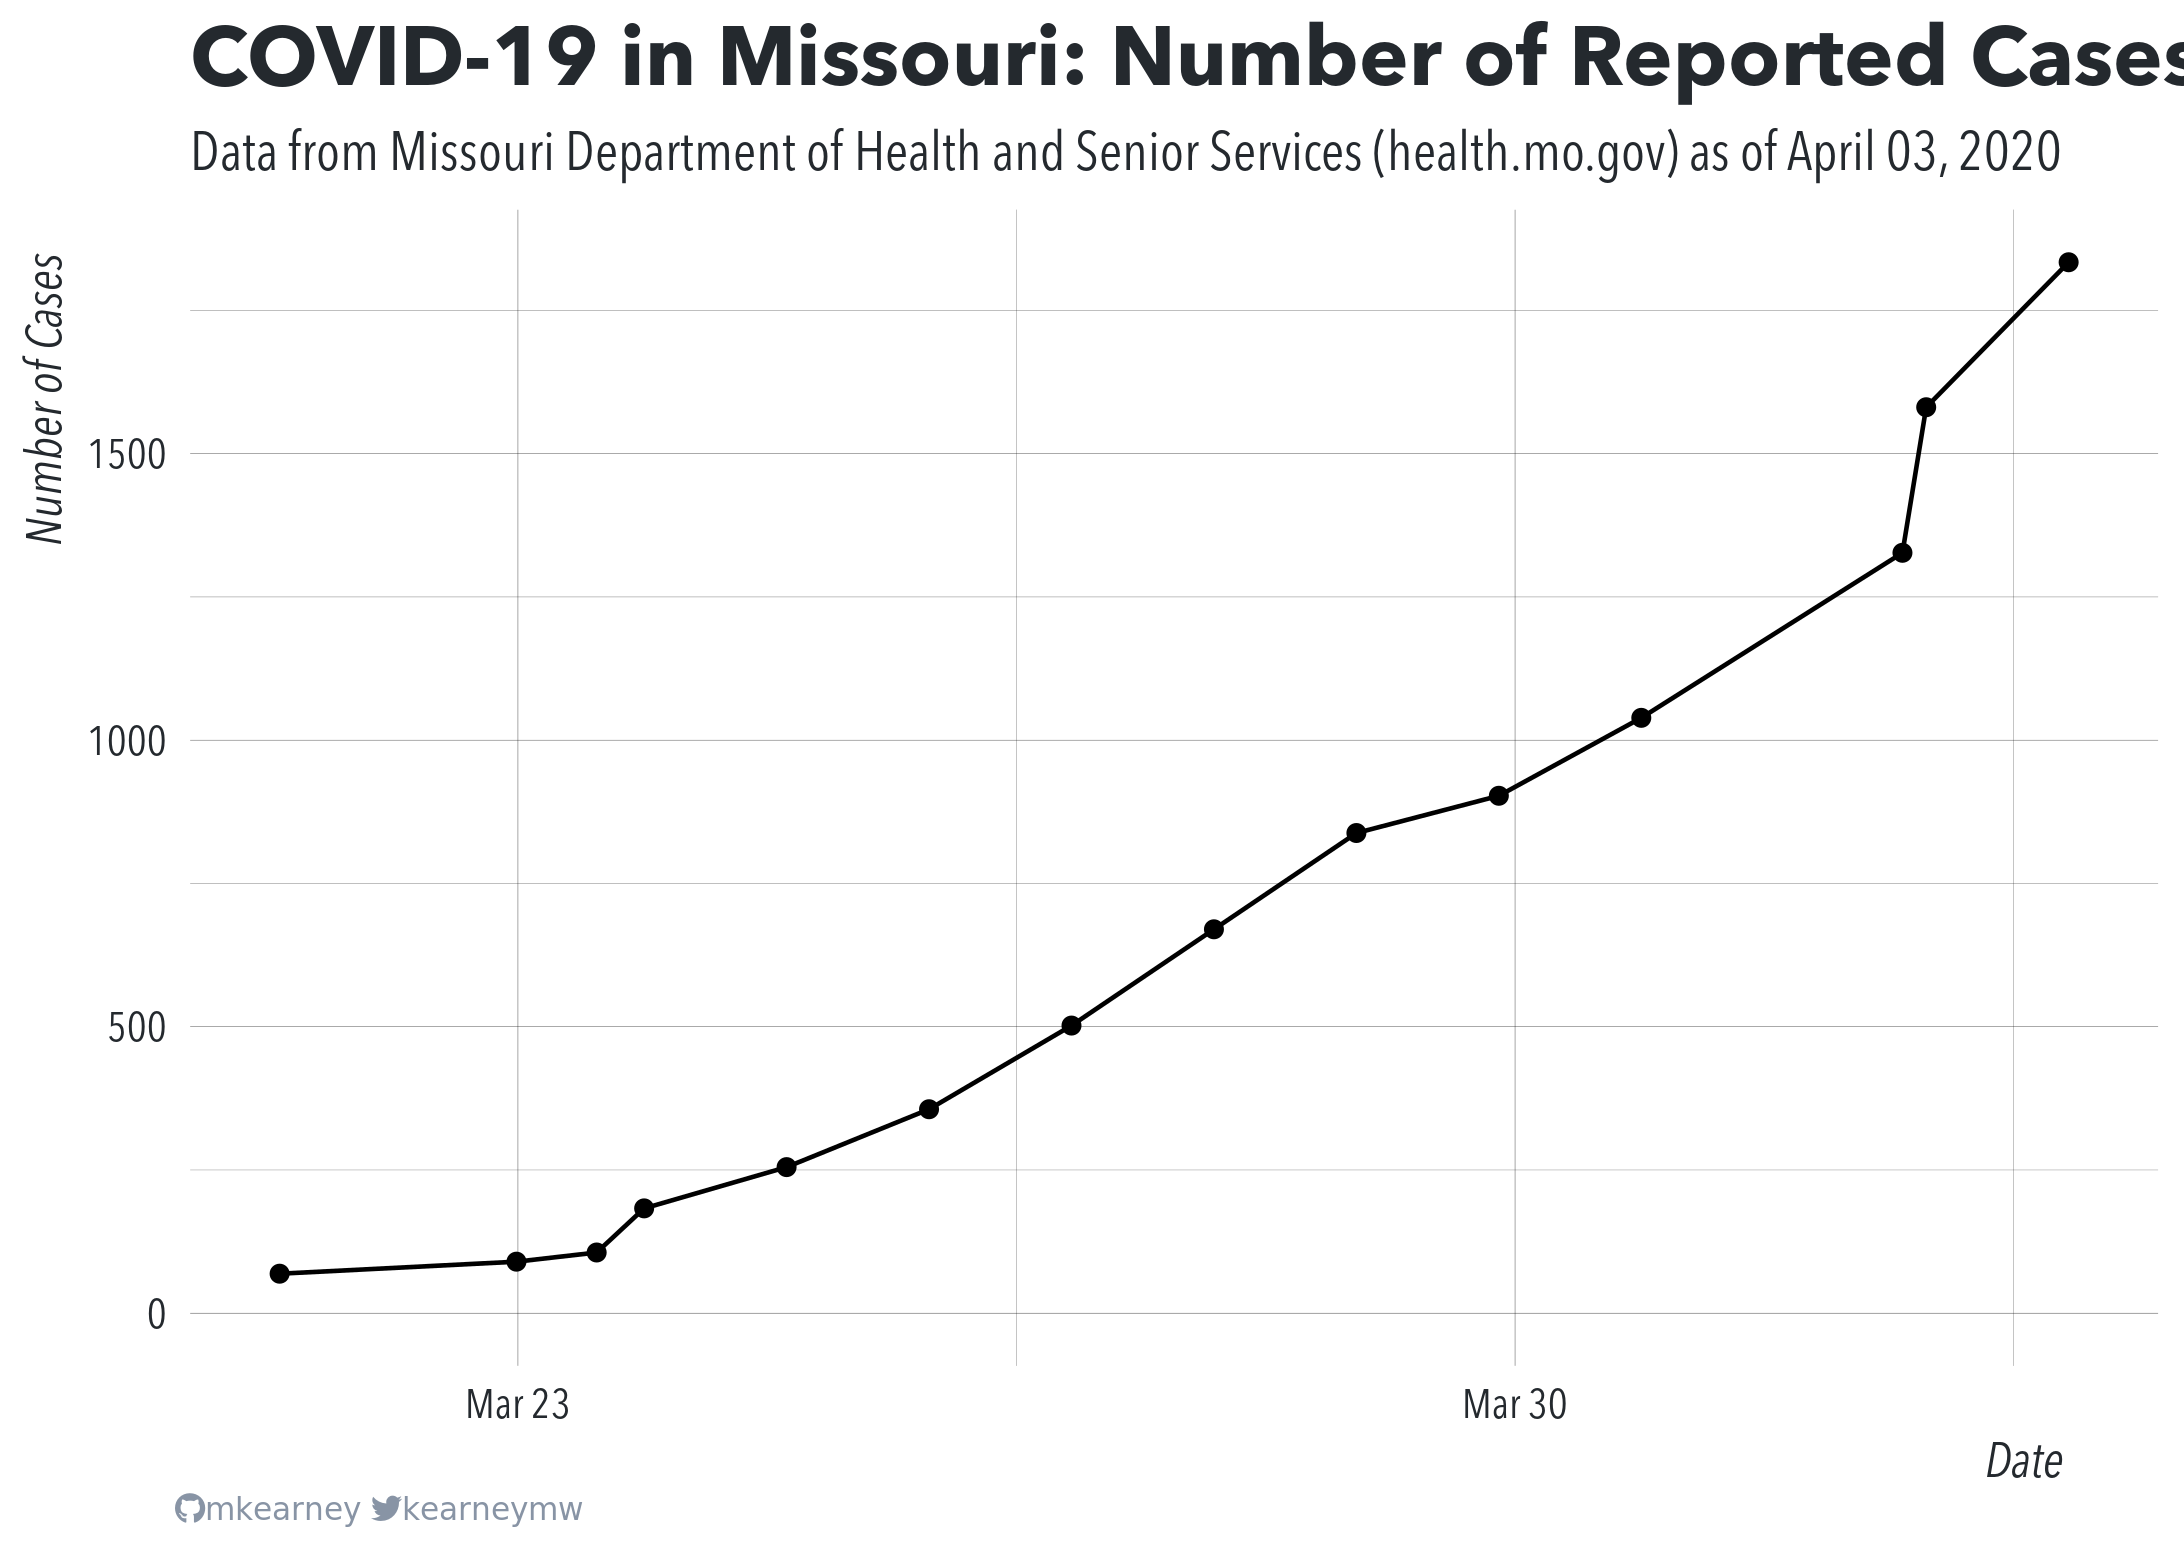
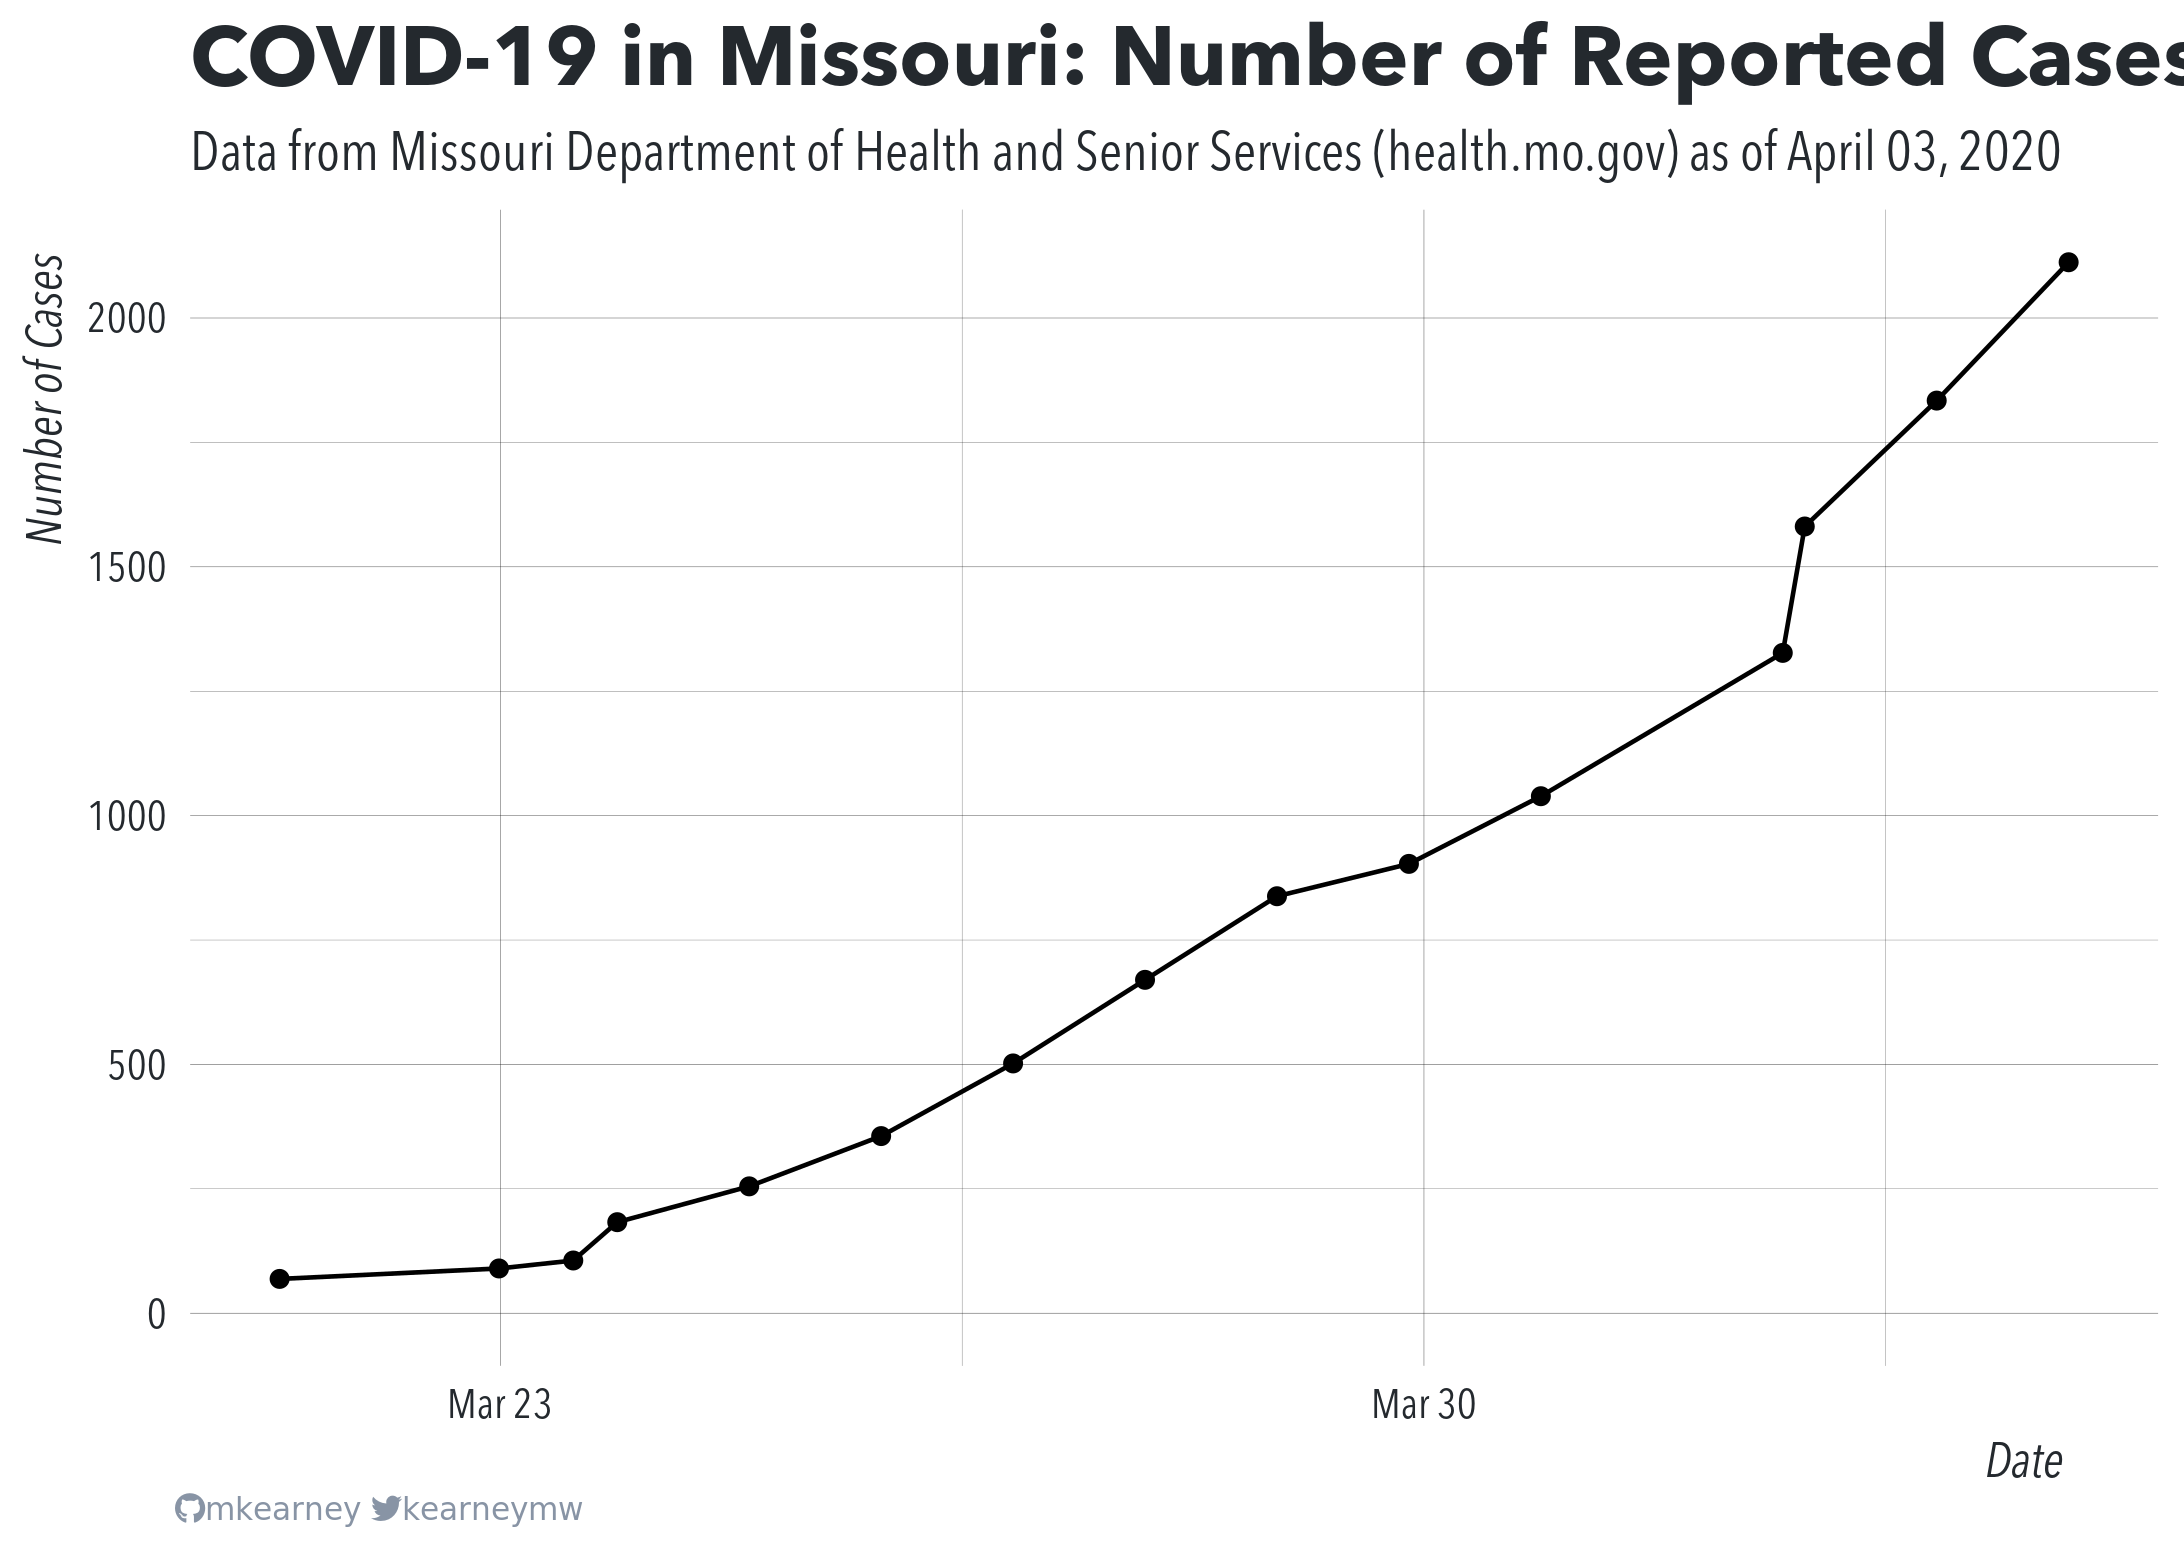
auto update

diff --git a/README.md b/README.md
@@ -25,23 +25,24 @@ at the state or county level:
 ``` r
 ## state totals daya
 suppressMessages(readr::read_csv("data/mo-total.csv"))
-#> # A tibble: 14 x 50
+#> # A tibble: 15 x 50
 #>    state state_abb total_cases state_labs other_labs ages_Boone ages_Camden
 #>    <chr> <chr>           <dbl>      <dbl>      <dbl>      <dbl>       <dbl>
-#>  1 Miss… MO               1834        140       1694          1           1
-#>  2 Miss… MO               1581        135       1446          1           1
-#>  3 Miss… MO               1327        121       1206          1           1
-#>  4 Miss… MO               1039        124        915          1           1
-#>  5 Miss… MO                903         92        811          1           1
-#>  6 Miss… MO                838         98        740          1           1
-#>  7 Miss… MO                670         90        580          1          NA
-#>  8 Miss… MO                502         72        430          1          NA
-#>  9 Miss… MO                356         62        294          1          NA
-#> 10 Miss… MO                255         55        200         NA          NA
-#> 11 Miss… MO                183         47        136         NA          NA
-#> 12 Miss… MO                106         47         59         NA          NA
-#> 13 Miss… MO                 90         38         52         NA          NA
-#> 14 Miss… MO                 69         NA         NA         NA          NA
+#>  1 Miss… MO               2112        160       1952          1           1
+#>  2 Miss… MO               1834        140       1694          1           1
+#>  3 Miss… MO               1581        135       1446          1           1
+#>  4 Miss… MO               1327        121       1206          1           1
+#>  5 Miss… MO               1039        124        915          1           1
+#>  6 Miss… MO                903         92        811          1           1
+#>  7 Miss… MO                838         98        740          1           1
+#>  8 Miss… MO                670         90        580          1          NA
+#>  9 Miss… MO                502         72        430          1          NA
+#> 10 Miss… MO                356         62        294          1          NA
+#> 11 Miss… MO                255         55        200         NA          NA
+#> 12 Miss… MO                183         47        136         NA          NA
+#> 13 Miss… MO                106         47         59         NA          NA
+#> 14 Miss… MO                 90         38         52         NA          NA
+#> 15 Miss… MO                 69         NA         NA         NA          NA
 #> # … with 43 more variables: ages_Cass <dbl>, ages_Greene <dbl>,
 #> #   ages_Henry <dbl>, ages_Jackson <dbl>, ages_Lafayette <dbl>, `ages_St.
 #> #   Charles County` <dbl>, `ages_St. Louis City` <dbl>, `ages_St. Louis
@@ -63,20 +64,20 @@ suppressMessages(readr::read_csv("data/mo-total.csv"))
 
 ## county data
 suppressMessages(readr::read_csv("data/mo-county.csv"))
-#> # A tibble: 3,779 x 6
+#> # A tibble: 3,897 x 6
 #>    county    total state_lab other_lab  fips timestamp          
 #>    <chr>     <dbl>     <dbl>     <dbl> <dbl> <dttm>             
-#>  1 Adair         6         0         6 29001 2020-04-03 17:16:01
-#>  2 Andrew        0         0         0 29003 2020-04-03 17:16:01
-#>  3 Atchison      1         1         0 29005 2020-04-03 17:16:01
-#>  4 Audrain       0         0         0 29007 2020-04-03 17:16:01
-#>  5 Barry         1         0         1 29009 2020-04-03 17:16:01
-#>  6 Barton        0         0         0 29011 2020-04-03 17:16:01
-#>  7 Bates         2         0         2 29013 2020-04-03 17:16:01
-#>  8 Benton        3         0         3 29015 2020-04-03 17:16:01
-#>  9 Bollinger     1         0         1 29017 2020-04-03 17:16:01
-#> 10 Boone        69         2        67 29019 2020-04-03 17:16:01
-#> # … with 3,769 more rows
+#>  1 Adair         8         0         8 29001 2020-04-03 21:16:01
+#>  2 Andrew        0         0         0 29003 2020-04-03 21:16:01
+#>  3 Atchison      1         1         0 29005 2020-04-03 21:16:01
+#>  4 Audrain       0         0         0 29007 2020-04-03 21:16:01
+#>  5 Barry         1         0         1 29009 2020-04-03 21:16:01
+#>  6 Barton        0         0         0 29011 2020-04-03 21:16:01
+#>  7 Bates         3         0         3 29013 2020-04-03 21:16:01
+#>  8 Benton        3         0         3 29015 2020-04-03 21:16:01
+#>  9 Bollinger     1         0         1 29017 2020-04-03 21:16:01
+#> 10 Boone        74         3        71 29019 2020-04-03 21:16:01
+#> # … with 3,887 more rows
 ```
 
 ![](img/timeseries.png)
